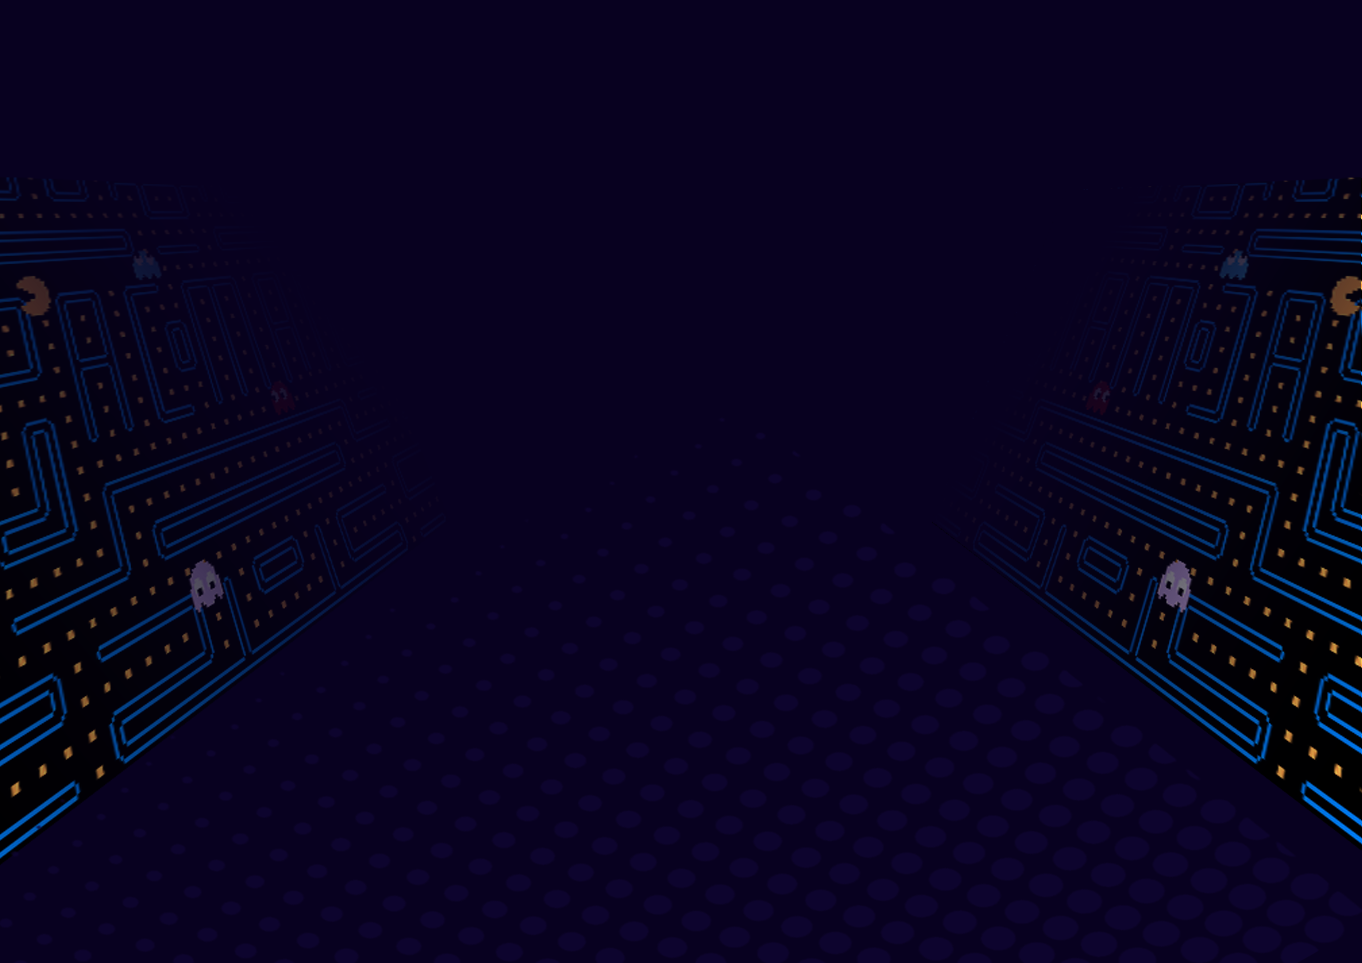
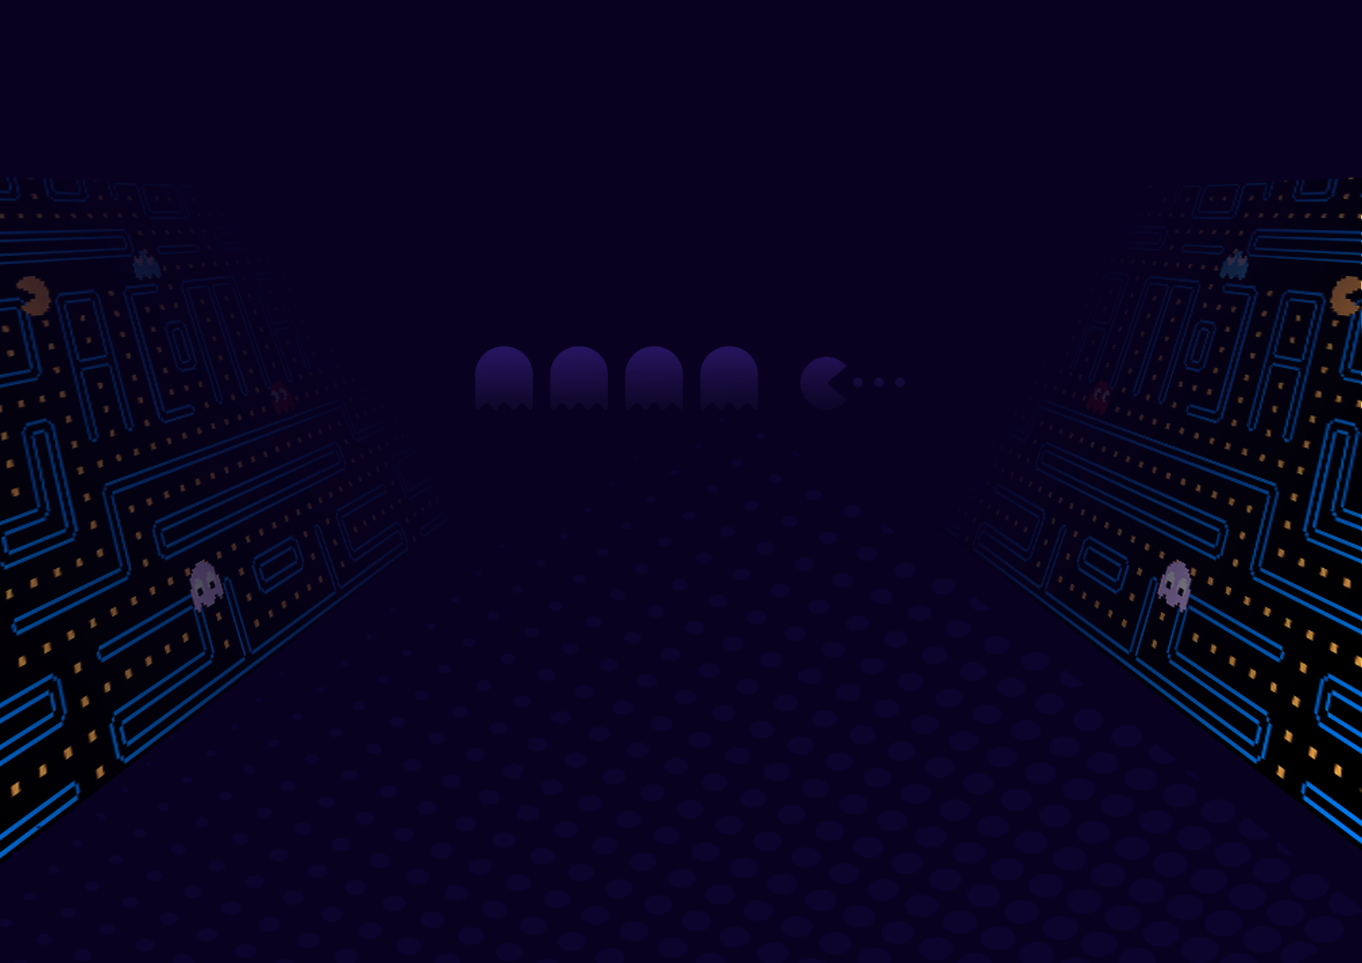
Add files via upload

Changed region(s): [[0.3392, 0.3427, 0.5551, 0.405], [0.5859, 0.3738, 0.6167, 0.405]]

diff --git a/index.html b/index.html
@@ -15,7 +15,7 @@
 		<div class="header-button" style="cursor: pointer;" id="settingsb"></div>
 		<div class="header-button" style="cursor: pointer;" id="aboutb"></div>
 		<div class="header-button" style="cursor: pointer;" id="playb"></div>
-		<img id="logo" style="float: right; width:auto;" src=./resources/images/pacman-3d-png-2.png height=100% />
+		<img id="logo" style="float: right; width:auto; cursor: pointer;" src=./resources/images/pacman-3d-png-2.png height=100% />
 	</div>
 	<div id="content">
 		<div class="contnt" id="welcome">
@@ -298,7 +298,7 @@
 				<img src=./resources/images/paclock.png width=50px height=50px /><br>
 				<input id="time" type="number" min="60" value="60" /><br>
 				<p>Number of enemies:</p>
-				<img src=./resources/images/ghost.png width=50px height=50px /><br>
+				<img id="ghost" style="width:auto" height=50px /><br>
 				<input type="range" min="1" max="4" value="2" class="slider" id="enemies">
 				<span id="en" style="font-weight: bold; color: yellow;"></span><br>
 			</div><br><br>
@@ -334,6 +334,7 @@
 		var numOfUsers = 0;
 		var contextBall1;
 		var currentUser;
+		var imageUrl = new Array();
 
 		$(document).ready(function () {
 			users = new Array;
@@ -349,8 +350,16 @@
 
 
 			//settings
+			
+			imageUrl[0] = "./resources/images/ghost1.png";
+			imageUrl[1] = "./resources/images/ghost2.png";
+			imageUrl[2] = "./resources/images/ghost3.png";
+			imageUrl[3] = "./resources/images/ghost4.png";
+
+
 			var slider = document.getElementById("myRange");
 			var output = document.getElementById("f");
+			
 			output.innerHTML = slider.value;
 			slider.oninput = function () {
 				output.innerHTML = this.value;
@@ -359,8 +368,10 @@
 			var slider2 = document.getElementById("enemies");
 			var output2 = document.getElementById("en");
 			output2.innerHTML = slider2.value;
+			$("#ghost").prop("src",imageUrl[slider2.value-1]);
 			slider2.oninput = function () {
 				output2.innerHTML = this.value;
+				$("#ghost").prop("src",imageUrl[this.value-1]);
 			}
 
 			var colorStr = $("#ball1c").val();
@@ -401,6 +412,16 @@
 		$("#aboutb").click(function () {
 			var modal = document.getElementById("aboutModal");
 			modal.style.display = "block";
+		});
+
+		
+		$("#playb").click(function () {
+			if(currentUser != null){
+				showGame();
+			}
+			else{
+				clicklogin();
+			}
 		});
 
 		$(".close").click(function () {
@@ -543,6 +564,7 @@
 			$("#en").val(enemiesR);
 			var enO = document.getElementById("en");
 			enO.innerHTML = enemiesR;
+			$("#ghost").prop("src",imageUrl[enemiesR-1]);
 
 		});
 
@@ -557,6 +579,19 @@
 			if (checkSimilarKeys(keypressed) == true) {
 				$(this).val(keypressed);
 			}
+		});
+
+		$("#logo").click(function () {
+			d1 = document.getElementById("welcome");
+			d2 = document.getElementById("login");
+			d3 = document.getElementById("register");
+			d4 = document.getElementById("settings");
+			d5 = document.getElementById("game");
+			d1.style.display = "block";
+			d2.style.display = "none";
+			d3.style.display = "none";
+			d4.style.display = "none";
+			d5.style.display = "none";
 		});
 
 		//color1

diff --git a/resources/css/style.css b/resources/css/style.css
@@ -16,7 +16,7 @@
 
 .contnt {
 	height: 900px;
-	padding: 50px;
+
 	opacity: 1;
 	animation-name: fadeInOpacity;
 	animation-iteration-count: 1;
